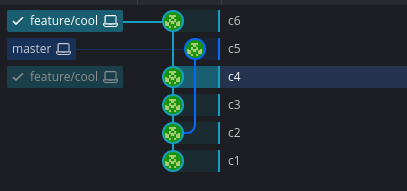
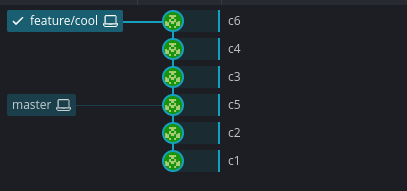
bk260225

diff --git a/docs/ROS/ros_world/parameters/index.md b/docs/ROS/ros_world/parameters/index.md
@@ -12,9 +12,10 @@ tags:
 Simple Node with multiple parameter file
 one of the file use wildcard as `node_name`
 
-<details><summary>Simple node</summary>
+<details><summary>Post</summary>
+
+
 ```python
-#!/usr/bin/env python3
 
 
 import rclpy
@@ -42,7 +43,9 @@ def main(args=None):
 if __name__ == '__main__':
     main()
 ```
+
 </details>
+
 
 
 
@@ -56,8 +59,60 @@ minimal:
 ```
 
 ```yaml title="parameters2.yaml"
-/*/*:
+/**:
   ros__parameters:
     param1: 100
     param2: 200
 ```
+
+---
+
+#### usage
+
+!!! note wildcard
+    Wildcards can be used for node names and namespaces.  
+    - `*`  matches a single token delimited by slashes (/). 
+    - `**` matches zero or more tokens delimited by slashes. 
+    - Partial matches are not allowed (e.g. foo*).
+    
+    ```yaml
+    /**:
+        ros__parameters:
+            wildcard_full: "Full wildcard for any namespaces and any node names"
+
+    /**/parameter_blackboard:
+        ros__parameters:
+            wildcard_namespace: "Wildcard for a specific node name under any namespace"
+
+    /*:
+        ros__parameters:
+            wildcard_nodename_root_namespace: "Wildcard for any node names, but only in root namespace"
+    ```
+     
+```bash title="use default params value declare in code"
+ros2 run ros_py param_demo.py 
+[INFO] [1740517785.377374134] [minimal]: P1: 1
+[INFO] [1740517785.377601145] [minimal]: P1: 2
+```
+
+```bash title="load paras from file"
+ros2 run ros_py param_demo.py --ros-args --params-file /home/user/workspaces/ros_py/src/ros_py/ros_py/params.yaml
+[INFO] [1740517874.809880531] [minimal]: P1: 10
+[INFO] [1740517874.810112715] [minimal]: P1: 20
+```
+
+```bash
+ros2 run ros_py param_demo.py \
+--ros-args \
+--params-file /home/user/workspaces/ros_py/src/ros_py/ros_py/params2.yaml \
+--params-file /home/user/workspaces/ros_py/src/ros_py/ros_py/params.yaml
+[INFO] [1740518709.532923265] [minimal]: P1: 100
+[INFO] [1740518709.533163666] [minimal]: P1: 200
+```
+
+
+---
+
+## Reference
+- [Passing ROS arguments to nodes via the command-line](https://docs.ros.org/en/humble/How-To-Guides/Node-arguments.html)
+- [Using the ros2 param command-line tool](https://docs.ros.org/en/humble/How-To-Guides/Using-ros2-param.html)

diff --git a/docs/DevOps/git/git_rebase.md b/docs/DevOps/git/git_rebase.md
@@ -8,7 +8,14 @@ tags:
 
 ![alt text](images/rebase_1.png)
 
-![alt text](images.rebase_2.png)
+
+```bash
+#switch to feature branch
+git checkout feature/cool
+
+```
+![alt text](images/rebase_2.png)
+
 
 ```bash
 # from feature/cool
@@ -17,7 +24,7 @@ git rebase master
 ```
 
 
-![alt text](images/rebase_3.png)
+![](images/rebase_3.png)
 
 ```bash
 # from master

diff --git a/docs/DevOps/git/index.md b/docs/DevOps/git/index.md
@@ -29,7 +29,7 @@ tags:
 </div>
 
 ##  Cheat sheet
-
+- [git diff](git_diff.md)
 - [git rebase](git_rebase.md)
 - [git cherrypick](git_cherrypick.md)
 - [Git stash](git_stash.md)

diff --git a/docs/DevOps/git/tips_settings/index.md b/docs/DevOps/git/tips_settings/index.md
@@ -7,7 +7,7 @@ tags:
 # Git Tips and Settings
 
 ## prompt
-Cool prompt generate by ChatAI
+Effective prompt with git branch name
 
 ```bash
 function git-branch-name { 

diff --git a/docs/ROS/ros_world/index.md b/docs/ROS/ros_world/index.md
@@ -25,4 +25,5 @@
 ## Posts
 
 - [Node Topics name and remap](node_topic_nameing.md)
+- [ROS2 Parameters](parameters)
 - [Topics QoS](qos)
